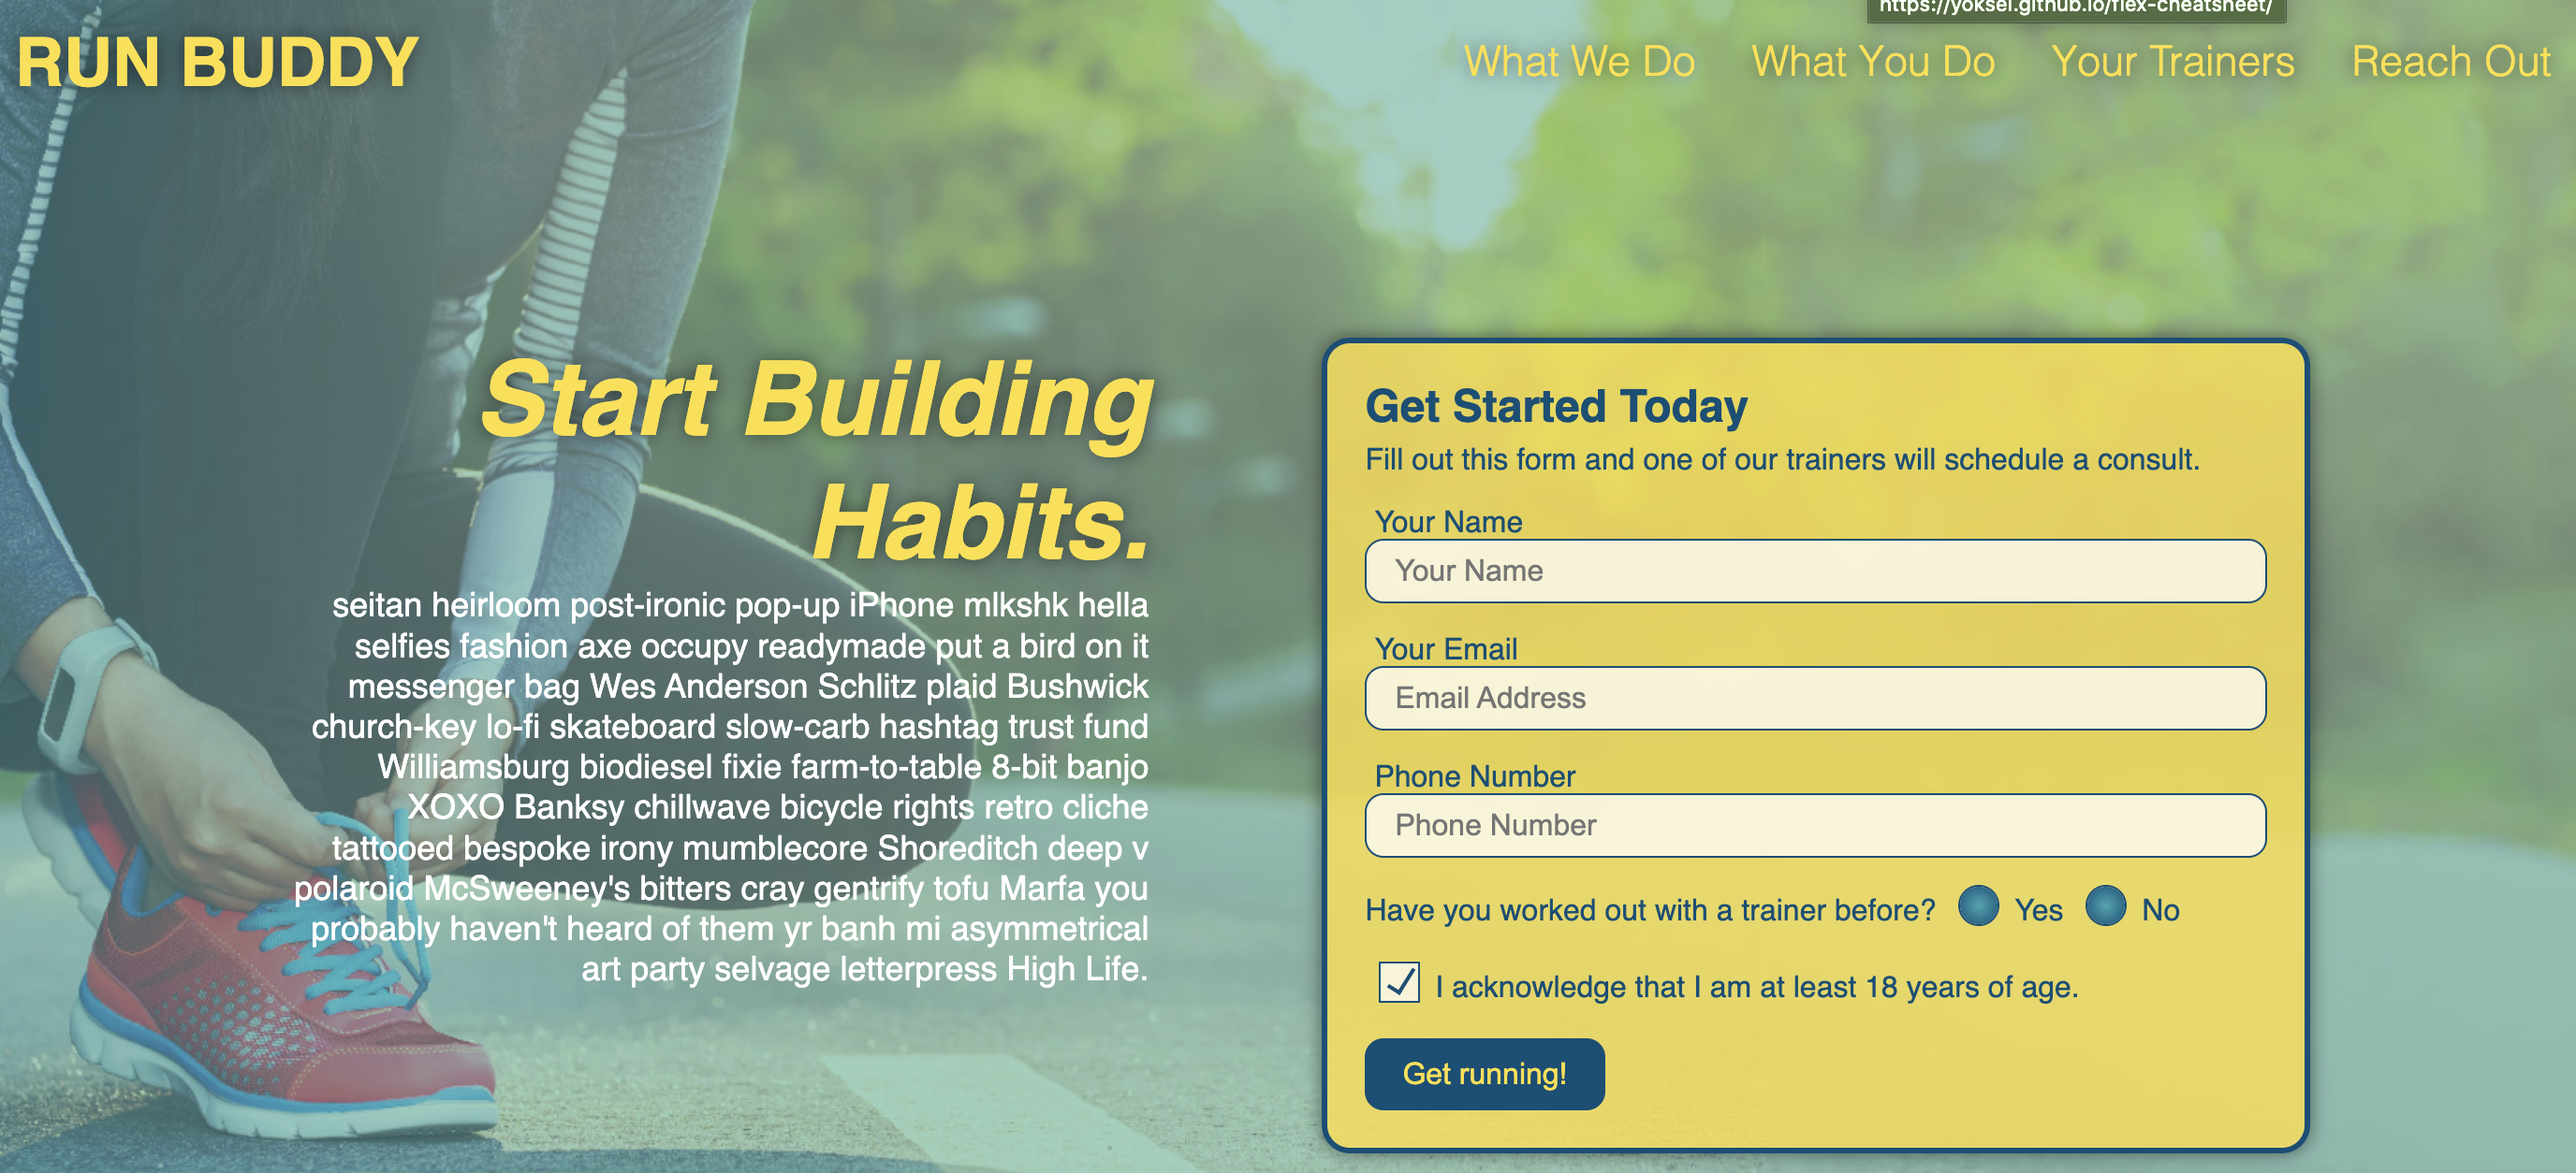
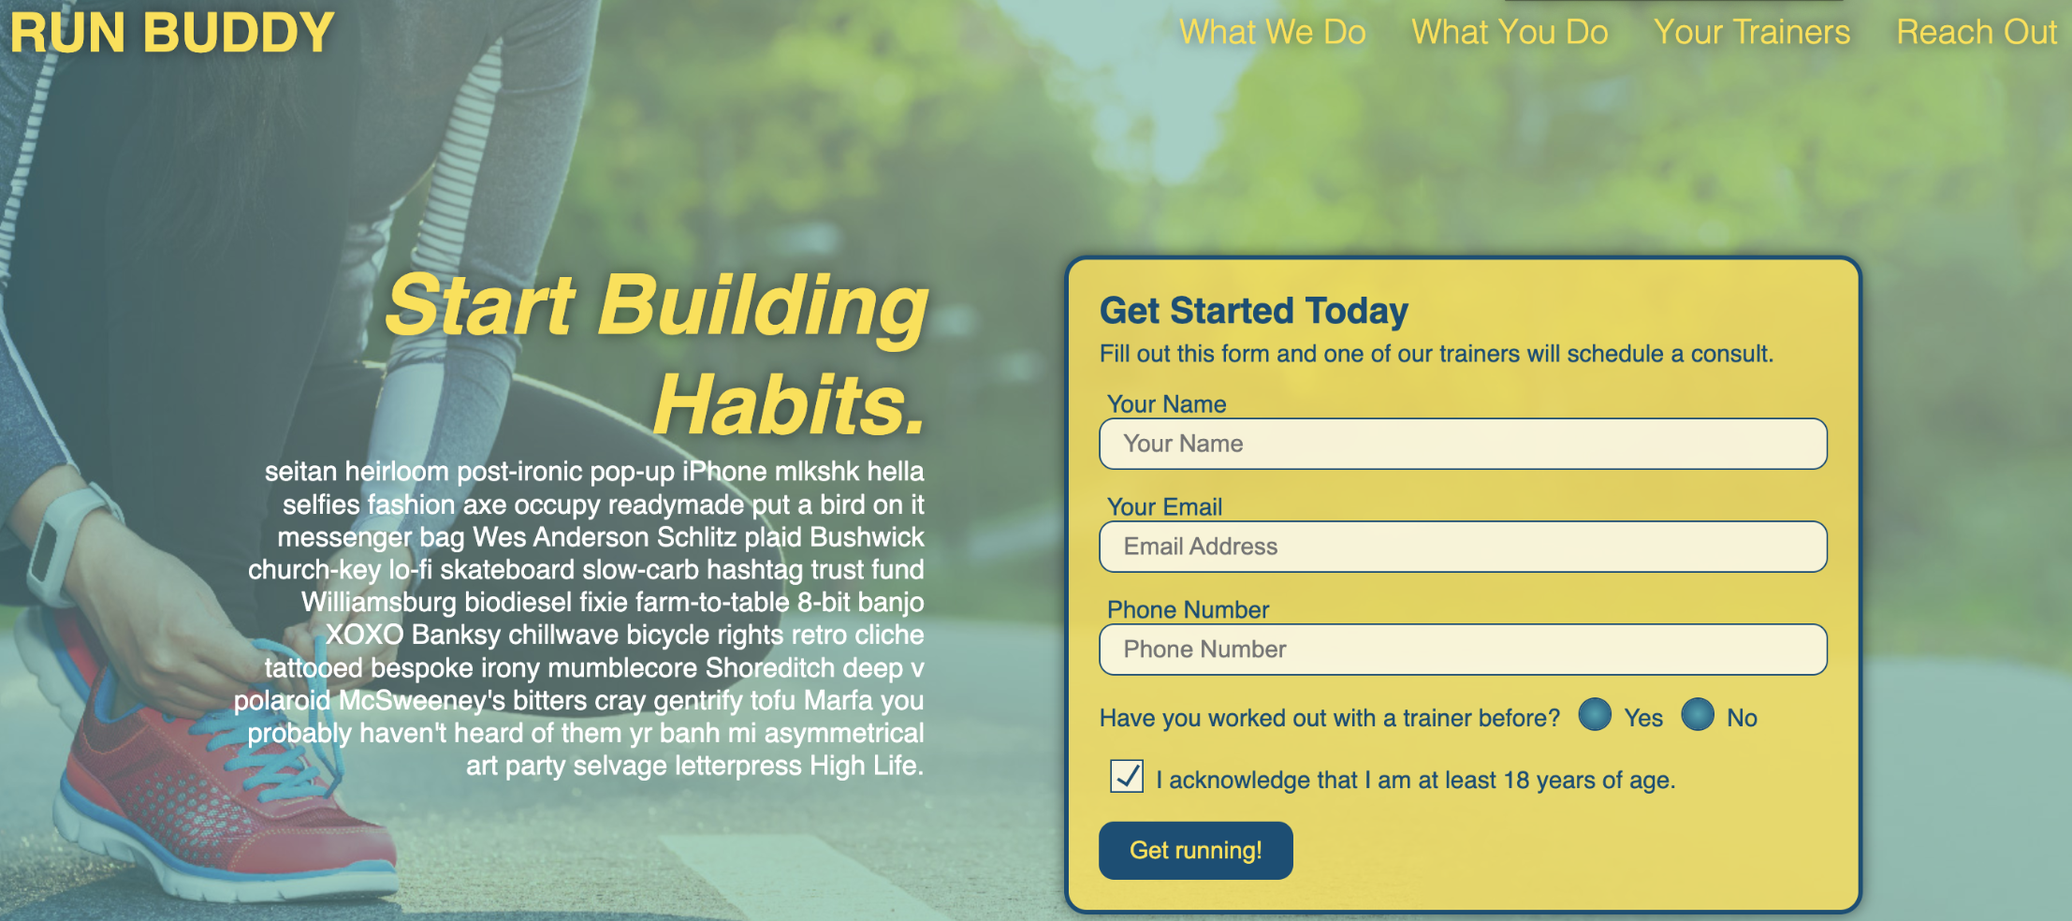
updated runbuddy image and nav margin

diff --git a/index.html b/index.html
@@ -137,7 +137,7 @@
     <div class="development-row">
       <div class="development-column">
         <a href="https://triciaax.github.io/run-buddy-defaultcode-placeholder/">
-        <img src="./assets/images/RunBuddy.png" alt="Run Buddy Placeholder" /></a>
+        <img src="./assets/images/RunBuddy.png" alt="Run Buddy Placeholder" title="Run Buddy Placeholder" /></a>
         <h3>Run Buddy Placeholder</h3>
       </div>
     </div>

diff --git a/assets/css/style.css b/assets/css/style.css
@@ -86,6 +86,7 @@ display: inline-block;
 
 .navigation {
 padding-top: 10px;
+padding-right: 10px;
 word-spacing: 30px;
 text-align: right;
 }
